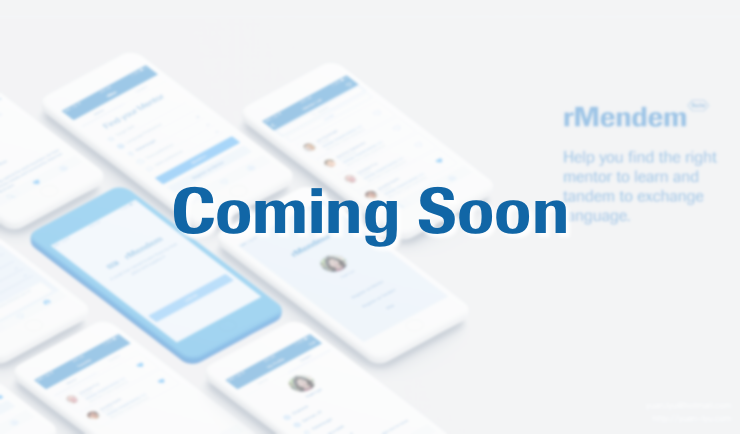
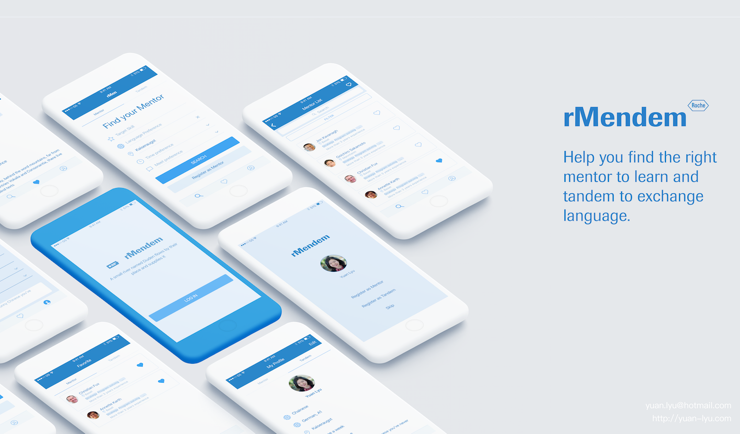
roche update

diff --git a/portfolio/roche.html b/portfolio/roche.html
@@ -1,0 +1,212 @@
+<!DOCTYPE HTML>
+<html>
+	<head>
+		<title>HighLeng_Transmetics</title>
+		<meta http-equiv="content-type" content="text/html; charset=utf-8" />
+		<meta name="description" content="" />
+		<meta name="keywords" content="" />
+  		<script src="../js/jquery.min.js"></script>
+  		<script src="../js/bootstrap.min.js"></script>
+		<link rel="stylesheet" href="../css/bootstrap.min.css">  
+  		<link rel="stylesheet" href="../css/flat-ui.css">  
+  		<link rel="stylesheet" href="../css/font-awesome.min.css">
+  		<link rel="stylesheet" href="../css/highlengstyle.css"> 
+		<script>
+  (function(i,s,o,g,r,a,m){i['GoogleAnalyticsObject']=r;i[r]=i[r]||function(){
+  (i[r].q=i[r].q||[]).push(arguments)},i[r].l=1*new Date();a=s.createElement(o),
+  m=s.getElementsByTagName(o)[0];a.async=1;a.src=g;m.parentNode.insertBefore(a,m)
+  })(window,document,'script','https://www.google-analytics.com/analytics.js','ga');
+
+  ga('create', 'UA-102127012-1', 'auto');
+  ga('send', 'pageview');
+
+</script>
+	</head>
+	<body>
+
+		<!-- Header -->
+		<header class="portfolio_header" style="background-image:url('../images/roche/rmendem.png'); background-color:#4DA693 ">
+			<div class="header_content">
+				<!-- <h1>Transmetics</h1>
+		    	<p>Android APP for helping foreigners buy suitable cosmetics in France</p> 
+	 -->
+			</div>
+		    
+		</header>
+
+		<!-- Main -->
+		<div style="background-color:#ecf0f1">
+			<div class="portfolio_container" style="padding-top:30px;padding-bottom:30px">
+				<section id="role">
+						<div class="row">
+							<article class="col-sm-3">
+								<p><b>Timeline</b></p>
+								<p><small>Nov.2017 - Apr.2018</small></p>
+							</article>
+							<article class="col-sm-3">
+								<p><b>Location</b></p>
+								<p><small>Basel, Switzerland</small></p>
+							</article>
+							<article class="col-sm-3">
+								<p><b>My Role</b></p>
+								<p><small>Innovation Intern</small><br>
+								<small>UX/UI design(UX academy, rMendem)</small><br>
+								<small>UX consultant(HCP, etc)</small></p>
+							
+							</article>
+							<article class="col-sm-3">
+								<p><b>Deliverables</b></p>
+								<small>detailed cannot be covered for the confidential reason:(</small>
+								
+							</article>
+
+						</div>
+					</section>
+				</div>
+			</div>
+		
+			<div class="portfolio_container " style="padding-top:30px">
+				<!-- One -->
+					<section id="intro">
+						
+						<h5>Brief</h5>
+						<p>During my six month internship, I worked with the <a href="#team">Roche DIA IT SD team</a>, aiming at bring the user-centered design and usability knolwdge to team projects and providing relevant trainings for team members. Besides, I also participated several Roche projects, involved as UX consultant, my deliverables effects on different processes of the product. </p>
+						
+					</section>
+					
+					<section id="process">
+						
+						<!-- <h5>Problem</h5>
+						<p>Current French skin care products only have French descriptions on package, making it <b>hard for non-native French speakers to understand</b>. What's more, People find it <b>hard to seek for cosmetics that are suitable for their skin type</b>. Starting from the problem, we conducted questionnaires and interviews to know more about our target users.</p>
+ -->
+						<!-- <h5>Scenarios</h5>
+						<div class="row" style="padding-bottom:30px">
+						<div class="col-sm-6" >
+						<p><b>Persona</b></p>
+						<p>Bingbing, female, Chinese, 26 years old, workplace new, non-French speaker, care about her skin, has passions in cosmetics, travelling in France at present.</p></div>
+						<div class="col-sm-6 text-center">
+						<img src="../images/transmetics/persona.png" width="100%"/>
+						</div>
+					</div> -->
+
+						<!-- <p><b>Scenario - When purchasing: </b></p>
+						<div class="row">
+						<img src="../images/transmetics/scenario1.png" class="col-sm-6"  />
+						<p class="col-sm-6"><small>Bingbing has heard a lot about the populartity of French cosmetics, so she comes inside a Pharmacy and want to buy something suitable for herself. However she had a hard time choosing which one to buy. When she see a cosmetic is in discount, she is curious about what is the product used for. So she use Transmetics to scan the barcode of the product and it gives her the information that she cares most about the product. Then Bingbing find two similar products which she both like and she can not decide which one to buy. She use the double scan function to scan the barcodes of the two cosmetics and get the comparison information between them.</small></p>
+						</div> -->
+						
+						<!-- <p><b>Scenario - Before/ After purchasing: </b></p>
+						<p class="col-sm-6"><small>Coming out of the pharmacy after buying some products, Bingbing wants to find more good French cosmetics. So she opens the Transmetics application at her room and see some recommendations of cosmetics about her skin types. She reads the Chinese descriptions of it and thinks it's suitable for her. Then she click the heart button to add the product to her collections so that she can check it next time she buy cosmetics. Also she collects the tags that she cares such as her skin type and some useful functions.</small></p>
+						<div class="col-sm-6 text-center">
+						<img src="../images/transmetics/scenario2.png" width="90%" alt="" />
+						</div>
+						<p></p> -->
+
+						
+
+                		<h5>Project Overview</h5>
+                		<div id="myCarousel" class="carousel slide" data-ride="carousel"> 
+						    <!-- 轮播（Carousel）指标 -->
+						    <ol class="carousel-indicators">
+						        <li data-target="#myCarousel" data-slide-to="0" class="active"></li>
+						        <li data-target="#myCarousel" data-slide-to="1"></li>
+						        <li data-target="#myCarousel" data-slide-to="2"></li>
+						        <li data-target="#myCarousel" data-slide-to="3"></li><!-- 
+						        <li data-target="#myCarousel" data-slide-to="4"></li> -->
+						    </ol>   
+						    <!-- 轮播（Carousel）项目 -->
+						    <div class="carousel-inner">
+						        <div class="item active">
+						            <img src="../images/roche/roche.001.png" alt="First slide">
+						        </div>						  
+						        <div class="item">
+						            <img src="../images/roche/roche.002.png" alt="Second slide">
+						        </div>
+						        <div class="item">
+						            <img src="../images/roche/roche.003.png" alt="">
+						        </div>
+						        <div class="item">
+						            <img src="../images/roche/roche.004.png" alt="">
+						        </div><!-- 
+						        <div class="item">
+						            <img src="../images/roche/roche.005.png" alt="">
+						        </div> -->
+
+						    </div>
+						    <!-- 轮播（Carousel）导航 -->
+						    <a class="carousel-control left " href="#myCarousel" 
+						        data-slide="prev"><span class="icon-prev" aria-hidden="true"></span>
+						    </a>
+						    <a class="carousel-control right" href="#myCarousel" 
+						        data-slide="next"><span class="icon-next" aria-hidden="true"></span>
+						    </a>
+						</div>
+
+						<h5>UX Academy</h5>
+						<p>This was my initial individual task to bring UX knowledge to team and provide trainings. By this internal UX academy site, roche employee could get the academic resources easily, get the quick guide to run a design-thinking workshop(agenda, slide template, tool kit), and find the in-house potential collaboration. In the end this became cross-team project with positive feedback, and still on going after I left. This the post of the site.</p>
+						<img src="../images/roche/uxacademy.png" width="100%" /><br>
+                		<p></p>
+
+                		<h5>rMendem</h5>
+						<p>rMendem is an mobile app which can <b>help you find the right mentor to learn and tandem to exchange language</b>. It is a personal project beside of my internship initial scope since I saw the needs on matching between mentor and mentee, as well finding a language tandem in Roche.</p>
+
+						<p><i>Working on more content...</i></p>
+
+						<section id="video">
+						<h5>Video Director & Producing</h5>
+
+						<p>During my internship, I also supporting Roche DIA IT department to produce videos for in-house events or activities pre&after broadcast. Please enjoy one of my favorite production below, this was using for Christmas advent greetings of each departments in Roche DIA IT(pw needed so far):</p>
+
+							<iframe src="https://player.vimeo.com/video/285987337" align="middle" width="100%" height="480" frameborder="0" webkitallowfullscreen mozallowfullscreen allowfullscreen></iframe> 
+
+						</section>
+
+						<p></p>
+						<section id ="team">
+						<h5>Team</h5>
+						<p>The team which I worked for is under Roche Diagnostics IT Department, called Solution Delivery Salesfore Back Office. The team is mainly focusing on customizing ERP platform for Roche employees. See the team profile infographic:</p>
+						<div class="text-center">
+						<img src="../images/roche/teamProfile.png" width="80%" /><br>
+
+						<p>Huge thanks to my manager Ricardo, Chris, and the amazing team and colleagues.</p>
+						<p></p>
+						</div>
+						</section>
+						
+
+					</section>
+					
+					<p class="element" style="color:#4DA693">
+						<a href="#top">
+							<span class="fui-triangle-up"></span>
+						</a>
+						&nbsp;	
+						<a href="../index.html#portfolio">
+							<span class="fui-home"></span>
+						</a>
+						&nbsp;
+						<a href="psalarm.html">
+							<span class="fui-arrow-left"></span>
+						</a>
+						&nbsp;
+						<a href="bingoelder.html">
+							<span class="fui-arrow-right"></span>
+						</a>
+					</p>
+				</div>
+		<!-- Footer -->
+			<footer>
+		<div class="">
+					<a href="https://www.linkedin.com/in/yuanlyu" ><span class="fui-linkedin" ></span></a>
+					<a href="mailto:yuan.lyu@hotmail.com"><span class="fui-mail"></span></a>
+					<a href="https://github.com/Cocoyuan"><span class="fui-github"></span></a>
+					<a href="https://www.instagram.com/alchemist_coco/"><span class="fui-instagram"></span></a>
+					<a href="images/wechat.jpg"><i class="fa fa-weixin" aria-hidden="true"></i></a>
+				</div>
+				<div><p>Design, Development, Resource&copy; 2018 Yuan Lyu</p>
+				</div>
+				
+	</footer>
+
+	</body>
+</html>

diff --git a/index.html b/index.html
@@ -243,7 +243,7 @@
 		      	<img src="images/thumbs/rmendem.png" class="img-rounded" width="100%"/>
 			    <figcaption>
 			    	<p>iOS Mobile APP for helping employees<br> find mentor and tandem in Roche</p>
-			    	<a href=""></a>
+			    	<a href="portfolio/roche.html"></a>
 			    
 				</figcaption>
 		    </div>
